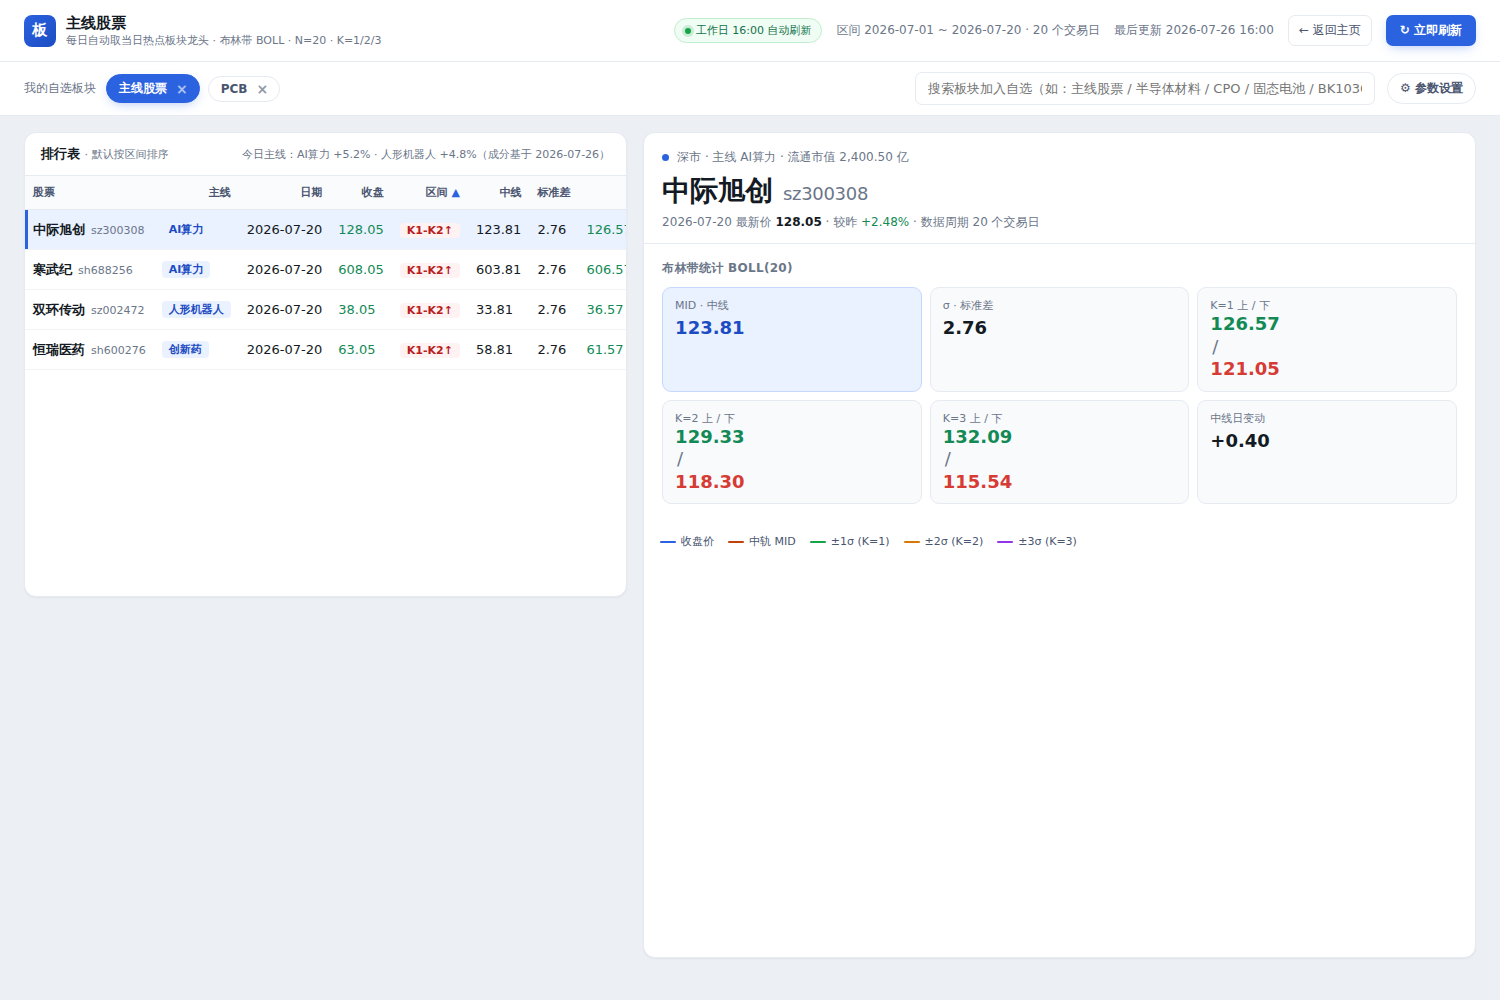
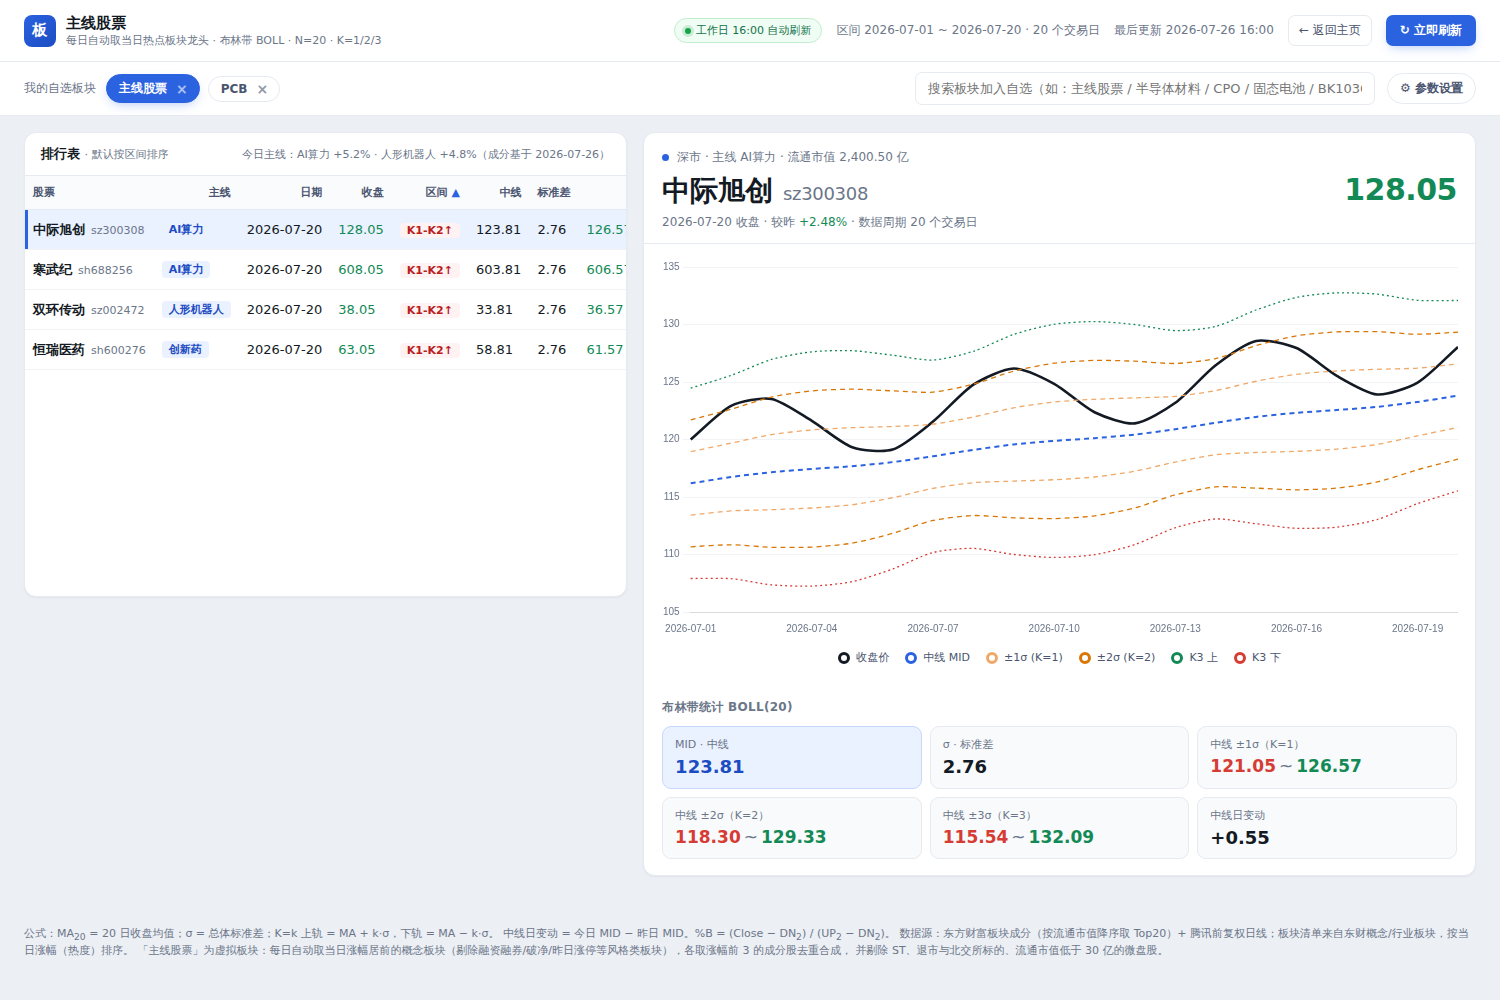
板块页详情面板改版：真滚动 MA(N) 轨道 + 图表配色重做
图表原来用「逐日扩展窗口」画轨道：第一根就有轨道且前段被挤得很窄，
跟右侧统计卡片里的 BOLL(N) 不是一个口径。现在改成真正的滚动 MA(N)±kσ。

subscription-worker.js
- fetchSectorCloses 多取 N-1 根「热身」收盘（共 2N-1 根），拆成展示窗口
  closes（N 根，统计卡片口径不变）与 warmup（热身段，只喂给图表）。
- payload 的 stocks[] 增加 warmup；dates 仍是 N 根，表格/统计/横轴全部不变。
- 上市不足 2N-1 根时热身自动变短，不报错。

sectors.html
- 图上每一点的轨道都用完整 N 根窗口，末点中线与统计卡片 MID 完全一致。
  老 KV 缓存没有 warmup 时 slice 下界被 0 夹住，自动退化成改动前的行为。
- 中线日变动改用真正「往前挪一根」的窗口，不再用近似（无 warmup 时仍走近似）。
- 线条配色收敛到唯一来源 SERIES，图例与曲线共用：收盘价加粗纯黑实线压顶层，
  中线蓝虚线，1σ/2σ 橙色短虚线，3σ 点线。3σ 上下分色时沿用本页 .up/.down
  语义（上绿下红），避免和正下方统计卡片里同一个数字的颜色打架。
- 图例改成空心圆点、移到图表下方居中；去掉纵向网格线。
- 详情面板顺序改为 标题 → 图表 → 统计卡片；标题行右侧加大字最新价（随涨跌着色）。
- 上下轨卡片由「上 / 下」竖排三行改成一行「下 ~ 上」——原来 sep 是 div，
  会把三个数字挤成三行。

Claude-Session: https://claude.ai/code/session_011r1rwC1F8nGVBhLb1jZRB8

diff --git a/sectors.html b/sectors.html
@@ -21,11 +21,7 @@
   --up: #138a55;
   --down: #d63b34;
   --ok-bg: #f0fdf4;
-  --c-price: #2b62e0;
-  --c-middle: #c2410c;
-  --c-k1: #16a34a;
-  --c-k2: #d97706;
-  --c-k3: #9333ea;
+  /* 图表线条配色见脚本里的 SERIES（单一来源，图例与曲线共用） */
   --r-sm: 7px;
   --r-md: 9px;
   --r-lg: 12px;
@@ -204,10 +200,18 @@ tbody tr.active td:first-child { box-shadow: inset 3px 0 0 var(--brand); }
 .detail-head { padding: 16px 18px 12px; border-bottom: 1px solid var(--line); }
 .detail-eyebrow { display: flex; align-items: center; gap: 8px; font-size: 12px; color: var(--ink-3); }
 .detail-eyebrow .dot { width: 7px; height: 7px; border-radius: 50%; background: var(--brand); }
-.detail-title { margin: 6px 0 4px; font-size: 28px; font-weight: 700; color: var(--ink); letter-spacing: -.3px; }
+/* 标题行：股票名 + 代码在左，最新价大字在右（对齐基线，价格随涨跌着色） */
+.detail-titlerow { display: flex; align-items: baseline; justify-content: space-between; gap: 16px; margin: 6px 0 4px; }
+.detail-title { font-size: 28px; font-weight: 700; color: var(--ink); letter-spacing: -.3px; }
 .detail-title .code-suffix { color: var(--ink-3); font-weight: 500; font-size: 18px; margin-left: 10px; }
+.detail-price { font-size: 30px; font-weight: 800; font-variant-numeric: tabular-nums; letter-spacing: -.5px; white-space: nowrap; }
 .detail-sub { font-size: 12px; color: var(--ink-3); }
 .detail-sub .price { color: var(--ink); font-weight: 600; }
+@media (max-width: 560px) {
+  .detail-titlerow { flex-wrap: wrap; }
+  .detail-title { font-size: 23px; }
+  .detail-price { font-size: 25px; }
+}
 
 .stats-section { padding: 16px 18px; }
 .stats-section h3 {
@@ -226,21 +230,27 @@ tbody tr.active td:first-child { box-shadow: inset 3px 0 0 var(--brand); }
 }
 .stat .k { font-size: 11px; color: var(--ink-3); font-weight: 500; }
 .stat .v { font-size: 18px; font-weight: 700; color: var(--ink); margin-top: 4px; font-variant-numeric: tabular-nums; line-height: 1.2; }
-.stat .v2 { font-size: 18px; font-weight: 700; color: var(--ink); font-variant-numeric: tabular-nums; line-height: 1.25; }
+/* 上下轨写成一行「下 ~ 上」；原来 sep 是 div，会把三个数字挤成三行 */
+.stat .v2 {
+  font-size: 17px; font-weight: 700; color: var(--ink); margin-top: 4px;
+  font-variant-numeric: tabular-nums; line-height: 1.2; white-space: nowrap;
+}
 .stat .v2 .lo { color: var(--down); }
-.stat .v2 .sep { color: var(--ink-3); margin: 0 2px; font-weight: 400; }
+.stat .v2 .sep { color: var(--ink-3); margin: 0 3px; font-weight: 400; }
 .stat .v2 .hi { color: var(--up); }
 .stat.brand { background: var(--brand-tint); border-color: #c7d8ff; }
 .stat.brand .v { color: var(--brand-strong); }
 
 .chart-section { padding: 14px 16px 18px; }
 .chart-section .legend {
-  display: flex; gap: 14px; flex-wrap: wrap; margin: 0 0 10px;
+  display: flex; gap: 8px 16px; flex-wrap: wrap; margin: 12px 0 0; justify-content: center;
   font-size: 11px; color: var(--ink-2);
 }
-.chart-section .legend span { display: inline-flex; align-items: center; gap: 5px; }
+.chart-section .legend span { display: inline-flex; align-items: center; gap: 6px; }
+/* 空心圆点图例：环用线条色，比细横线更容易分辨 */
 .chart-section .legend i {
-  display: inline-block; width: 16px; height: 2px; border-radius: 2px;
+  display: inline-block; width: 12px; height: 12px; border-radius: 50%;
+  border: 3px solid currentColor; background: var(--surface); box-sizing: border-box;
 }
 .chart-wrap { position: relative; height: 380px; }
 
@@ -323,18 +333,21 @@ tbody tr.active td:first-child { box-shadow: inset 3px 0 0 var(--brand); }
       <div class="card" id="detail">
         <div class="detail-head">
           <div class="detail-eyebrow"><span class="dot"></span><span id="d-market">—</span></div>
-          <div class="detail-title"><span id="d-name">—</span><span class="code-suffix" id="d-code"></span></div>
+          <div class="detail-titlerow">
+            <div class="detail-title"><span id="d-name">—</span><span class="code-suffix" id="d-code"></span></div>
+            <div class="detail-price" id="d-price">—</div>
+          </div>
           <div class="detail-sub" id="d-sub">—</div>
+        </div>
+
+        <div class="chart-section">
+          <div class="chart-wrap"><canvas id="chart"></canvas></div>
+          <div class="legend" id="chart-legend"></div>
         </div>
 
         <div class="stats-section">
           <h3>布林带统计 BOLL(<span class="js-n">20</span>)</h3>
           <div class="stats-row" id="stats-row"></div>
-        </div>
-
-        <div class="chart-section">
-          <div class="legend" id="chart-legend"></div>
-          <div class="chart-wrap"><canvas id="chart"></canvas></div>
         </div>
       </div>
     </div>
@@ -412,7 +425,21 @@ const MAINLINE = { bk: "ZX0001", name: "主线股票", type: "mainline", pct: nu
 const BK_RE = /^BK\d{4,6}$/;              // 仅用于下拉里“手动加入东财板块代码”
 const ID_RE = /^(?:BK\d{4,6}|ZX\d{4})$/;  // 自选 / 路由校验，含虚拟板块
 
+// 图表线条的唯一配色来源，图例与曲线共用，避免两处各写一份色值。
+// 1σ/2σ 上下同色（同一档轨道）；3σ 是最外档提示位，上下分色更好读，
+// 且必须沿用本页 .up/.down 的语义（上轨绿、下轨红），否则会和正下方
+// 统计卡片里同一个数字的颜色打架。
+const SERIES = {
+  price: { color: "#141a24", label: "收盘价" },
+  mid:   { color: "#2b62e0", label: "中线 MID" },
+  k1:    { color: "#f0a868", label: "±1σ (K=1)" },
+  k2:    { color: "#d97706", label: "±2σ (K=2)" },
+  k3u:   { color: "#138a55", label: "K3 上" },
+  k3d:   { color: "#d63b34", label: "K3 下" },
+};
+
 let DATES = [], STOCKS = [], rows = [], chart = null, activeCode = null;
+let PERIOD = DEFAULT_SETTINGS.days; // 当前这批数据用的周期 N，图上滚动窗口按它取
 let sortKey = "zoneIdx", sortDir = 1; // 默认按布林带区间排序（突破K3↑ → 突破K3↓），与主页“已选股票数据”一致
 let BOARDS = [];       // 全部板块清单 [{bk,name,type,pct}]
 let boardsLoaded = false; // 东财清单是否真的拉到（BOARDS 里恒有一条本地注入的主线，不能拿长度判断）
@@ -663,10 +690,11 @@ function applyData(data) {
     content.innerHTML = "";
     content.appendChild(document.getElementById("layout-tpl").content.cloneNode(true));
   }
-  updateNLabels(data.days || SETTINGS.days);
+  PERIOD = data.days || SETTINGS.days;
+  updateNLabels(PERIOD);
 
   rows = STOCKS.map(s => {
-    const st = stats(s.closes);
+    const st = stats(s.closes, s.warmup);
     st.zone = classifyCloseZone(st.last, st.mean, st.k1u, st.k1d, st.k2u, st.k2d, st.k3u, st.k3d);
     st.zoneIdx = st.zone.idx; // 供“区间”列排序
     return { ...s, theme: s.theme || "", ...st }; // theme 恒为字符串，排序走 localeCompare 分支
@@ -693,14 +721,20 @@ function renderBoardNote(data) {
   note.textContent = `今日主线：${list}` + (data.basedOnDate ? `（成分基于 ${data.basedOnDate}）` : "");
 }
 
-function stats(closes) {
+const avg = (a) => a.reduce((s, x) => s + x, 0) / a.length;
+
+function stats(closes, warmup) {
   const n = closes.length;
   if (!n) return { mean:0, std:0, last:0, prev:0, pct:0, midPrev:0, midDelta:0, k1u:0,k1d:0,k2u:0,k2d:0,k3u:0,k3d:0, pctB:0 };
-  const mean = closes.reduce((a,b)=>a+b,0)/n;
+  const mean = avg(closes);
   const variance = closes.reduce((s,x)=>s+(x-mean)**2,0)/n;
   const std = Math.sqrt(variance);
-  // 中线日变动：今日 MA_N − 昨日 MA_N；只有 N 个值时用近似（差异在小数点后 2~3 位）。
-  const midPrev = (closes.slice(0, n-1).reduce((a,b)=>a+b,0) + closes[0]) / n;
+  // 中线日变动：今日 MA_N − 昨日 MA_N。后端给了热身收盘就能取到真正的「往前挪一根」窗口；
+  // 老缓存没有 warmup 时退回原来的近似（差异在小数点后 2~3 位）。
+  const w = Array.isArray(warmup) ? warmup : [];
+  const midPrev = w.length
+    ? avg(w.concat(closes).slice(-(n + 1), -1))
+    : (closes.slice(0, n-1).reduce((a,b)=>a+b,0) + closes[0]) / n;
   const midDelta = mean - midPrev;
   const last = closes[n-1], prev = closes[n-2] || last;
   const pct = prev ? ((last/prev)-1)*100 : 0;
@@ -791,56 +825,75 @@ function selectStock(code) {
   document.getElementById("d-name").textContent = r.name;
   document.getElementById("d-code").textContent = r.code;
 
+  const priceCls = r.pct > 0 ? "up" : r.pct < 0 ? "down" : "flat";
+  const dPrice = document.getElementById("d-price");
+  dPrice.textContent = fmtNum(r.last, 2);
+  dPrice.className = `detail-price ${priceCls}`;
+
   const lastDate = DATES[DATES.length-1];
-  const pctSpan = `<span class="${r.pct>0?'up':r.pct<0?'down':'flat'}">${r.pct>0?'+':''}${r.pct.toFixed(2)}%</span>`;
+  const pctSpan = `<span class="${priceCls}">${r.pct>0?'+':''}${r.pct.toFixed(2)}%</span>`;
   document.getElementById("d-sub").innerHTML =
-    `${lastDate} 最新价 <span class="price">${fmtNum(r.last,2)}</span> · 较昨 ${pctSpan} · 数据周期 ${DATES.length} 个交易日`;
+    `${lastDate} 收盘 · 较昨 ${pctSpan} · 数据周期 ${DATES.length} 个交易日`;
 
   const deltaCls = r.midDelta > 0 ? "up" : r.midDelta < 0 ? "down" : "flat";
+  const band = (k, lo, hi) =>
+    `<div class="stat"><div class="k">${k}</div><div class="v2">` +
+    `<span class="lo">${fmtNum(lo,2)}</span><span class="sep">~</span><span class="hi">${fmtNum(hi,2)}</span>` +
+    `</div></div>`;
   document.getElementById("stats-row").innerHTML = `
     <div class="stat brand"><div class="k">MID · 中线</div><div class="v">${fmtNum(r.mean,2)}</div></div>
     <div class="stat"><div class="k">σ · 标准差</div><div class="v">${fmtNum(r.std,2)}</div></div>
-    <div class="stat"><div class="k">K=1 上 / 下</div><div class="v2"><span class="hi">${fmtNum(r.k1u,2)}</span><div class="sep">/</div><span class="lo">${fmtNum(r.k1d,2)}</span></div></div>
-    <div class="stat"><div class="k">K=2 上 / 下</div><div class="v2"><span class="hi">${fmtNum(r.k2u,2)}</span><div class="sep">/</div><span class="lo">${fmtNum(r.k2d,2)}</span></div></div>
-    <div class="stat"><div class="k">K=3 上 / 下</div><div class="v2"><span class="hi">${fmtNum(r.k3u,2)}</span><div class="sep">/</div><span class="lo">${fmtNum(r.k3d,2)}</span></div></div>
+    ${band("中线 ±1σ（K=1）", r.k1d, r.k1u)}
+    ${band("中线 ±2σ（K=2）", r.k2d, r.k2u)}
+    ${band("中线 ±3σ（K=3）", r.k3d, r.k3u)}
     <div class="stat"><div class="k">中线日变动</div><div class="v ${deltaCls}">${r.midDelta>0?'+':''}${fmtNum(r.midDelta,2)}</div></div>
   `;
 
-  // expanding-window bands for chart
+  // 真滚动 MA(N)±kσ：后端多给的 warmup 让展示窗口第一根也凑得出完整的 N 根样本，
+  // 于是图上每一点的轨道都和右下角统计卡片同口径。老缓存没有 warmup 时，
+  // slice 的下界自动被 0 夹住，退化成改动前的逐日扩展窗口，不会报错也不会断线。
   const closes = r.closes;
-  const expandMean = i => { const w = closes.slice(0,i+1); return w.reduce((a,b)=>a+b,0)/w.length; };
-  const expandStd  = (i,m) => { const w = closes.slice(0,i+1); const v = w.reduce((s,x)=>s+(x-m)**2,0)/w.length; return Math.sqrt(v); };
-  const mids = closes.map((_,i)=> expandMean(i));
-  const k1u = closes.map((_,i)=> { const m=expandMean(i); return m + expandStd(i,m); });
-  const k1d = closes.map((_,i)=> { const m=expandMean(i); return m - expandStd(i,m); });
-  const k2u = closes.map((_,i)=> { const m=expandMean(i); return m + 2*expandStd(i,m); });
-  const k2d = closes.map((_,i)=> { const m=expandMean(i); return m - 2*expandStd(i,m); });
-  const k3u = closes.map((_,i)=> { const m=expandMean(i); return m + 3*expandStd(i,m); });
-  const k3d = closes.map((_,i)=> { const m=expandMean(i); return m - 3*expandStd(i,m); });
+  const warmup = Array.isArray(r.warmup) ? r.warmup : [];
+  const series = warmup.concat(closes);
+  const bands = closes.map((_, i) => {
+    const end = warmup.length + i + 1;
+    const w = series.slice(Math.max(0, end - PERIOD), end);
+    const m = avg(w);
+    const sd = Math.sqrt(w.reduce((s, x) => s + (x - m) ** 2, 0) / w.length);
+    return { m, sd };
+  });
+  const mids = bands.map(b => b.m);
+  const k1u = bands.map(b => b.m + b.sd);
+  const k1d = bands.map(b => b.m - b.sd);
+  const k2u = bands.map(b => b.m + 2 * b.sd);
+  const k2d = bands.map(b => b.m - 2 * b.sd);
+  const k3u = bands.map(b => b.m + 3 * b.sd);
+  const k3d = bands.map(b => b.m - 3 * b.sd);
 
-  document.getElementById("chart-legend").innerHTML = `
-    <span><i style="background:var(--c-price)"></i>收盘价</span>
-    <span><i style="background:var(--c-middle)"></i>中轨 MID</span>
-    <span><i style="background:var(--c-k1)"></i>±1σ (K=1)</span>
-    <span><i style="background:var(--c-k2)"></i>±2σ (K=2)</span>
-    <span><i style="background:var(--c-k3)"></i>±3σ (K=3)</span>
-  `;
+  document.getElementById("chart-legend").innerHTML =
+    ["price", "mid", "k1", "k2", "k3u", "k3d"]
+      .map(k => `<span><i style="color:${SERIES[k].color}"></i>${SERIES[k].label}</span>`)
+      .join("");
 
   if (chart) chart.destroy();
-  const dashed = [3,3], dotted = [1,3];
+  const dashed = [5,4], dotted = [2,3];
+  // 线型按“离中线多远”递进：中线虚线 → 1σ/2σ 短虚线 → 3σ 点线；收盘价最粗最实，压在最上层。
+  const bandLine = (label, data, color, dash) =>
+    ({ label, data, borderColor: color, borderWidth: 1.3, pointRadius: 0, pointHoverRadius: 0, borderDash: dash, tension: 0.25 });
   chart = new Chart(document.getElementById("chart"), {
     type: "line",
     data: {
       labels: DATES,
       datasets: [
-        { label:"K3上", data:k3u, borderColor:"#9333ea", borderWidth:1, pointRadius:0, borderDash:dotted },
-        { label:"K2上", data:k2u, borderColor:"#d97706", borderWidth:1, pointRadius:0, borderDash:dashed },
-        { label:"K1上", data:k1u, borderColor:"#16a34a", borderWidth:1, pointRadius:0 },
-        { label:"MID",  data:mids, borderColor:"#c2410c", borderWidth:1.8, pointRadius:0 },
-        { label:"K1下", data:k1d, borderColor:"#16a34a", borderWidth:1, pointRadius:0 },
-        { label:"K2下", data:k2d, borderColor:"#d97706", borderWidth:1, pointRadius:0, borderDash:dashed },
-        { label:"K3下", data:k3d, borderColor:"#9333ea", borderWidth:1, pointRadius:0, borderDash:dotted },
-        { label:"收盘", data:closes, borderColor:"#2b62e0", backgroundColor:"#2b62e0", borderWidth:2.2, pointRadius:2.5, tension:0.15 },
+        bandLine("K3 上", k3u, SERIES.k3u.color, dotted),
+        bandLine("K2 上", k2u, SERIES.k2.color, dashed),
+        bandLine("K1 上", k1u, SERIES.k1.color, dashed),
+        { label:"中线", data:mids, borderColor:SERIES.mid.color, borderWidth:2, pointRadius:0, pointHoverRadius:0, borderDash:dashed, tension:0.25 },
+        bandLine("K1 下", k1d, SERIES.k1.color, dashed),
+        bandLine("K2 下", k2d, SERIES.k2.color, dashed),
+        bandLine("K3 下", k3d, SERIES.k3d.color, dotted),
+        { label:"收盘价", data:closes, borderColor:SERIES.price.color, backgroundColor:SERIES.price.color,
+          borderWidth:2.6, pointRadius:0, pointHoverRadius:4, tension:0.25 },
       ]
     },
     options: {
@@ -850,13 +903,15 @@ function selectStock(code) {
         legend: { display: false },
         tooltip: {
           mode: "index", intersect: false, backgroundColor: "rgba(20,28,42,.92)",
+          padding: 10, boxPadding: 4,
           titleFont: { size: 11, weight: 600 }, bodyFont: { size: 11 },
           itemSort: (a,b)=> b.parsed.y - a.parsed.y,
+          callbacks: { label: (c) => ` ${c.dataset.label}  ${fmtNum(c.parsed.y, 2)}` },
         }
       },
       scales: {
-        x: { ticks: { autoSkip: true, maxTicksLimit: 8, font: { size: 10, family: 'var(--font)' }, color: '#6b7689' }, grid: { color: "#f1f3f7" } },
-        y: { ticks: { font: { size: 10, family: 'var(--font)' }, color: '#6b7689' }, grid: { color: "#f1f3f7" } },
+        x: { ticks: { autoSkip: true, maxTicksLimit: 8, font: { size: 10, family: 'var(--font)' }, color: '#6b7689' }, grid: { display: false } },
+        y: { ticks: { font: { size: 10, family: 'var(--font)' }, color: '#6b7689' }, grid: { color: "#f1f3f7" }, border: { display: false } },
       }
     }
   });

diff --git a/subscription-worker.js b/subscription-worker.js
@@ -1547,7 +1547,8 @@ async function fetchBkSectorRanking(env, bk, topN = SECTOR_TOP_N) {
 async function fetchSectorCloses(stock, days = SECTOR_LOOKBACK_DAYS, adjust = SECTOR_DEFAULT_ADJUST) {
   const symbol = `${stock.market === "1" ? "sh" : "sz"}${stock.code}`;
   const fq = adjust === "none" ? "" : adjust;
-  const param = `${symbol},day,,,${days + 10},${fq}`;
+  // 多取 N-1 根「热身」：前端要画真正的滚动 MA(N)±kσ，展示窗口的第一根也得凑得出完整的 N 根样本。
+  const param = `${symbol},day,,,${days * 2 + 10},${fq}`;
   const payload = await fetchJsonWithRetry(
     `https://web.ifzq.gtimg.cn/appstock/app/fqkline/get?param=${param}`,
     { headers: { Accept: "application/json,text/plain,*/*" } },
@@ -1556,10 +1557,12 @@ async function fetchSectorCloses(stock, days = SECTOR_LOOKBACK_DAYS, adjust = SE
   const obj = payload?.data?.[symbol] || {};
   const rows = (fq && obj[`${fq}day`]) || obj.day || [];
   if (!rows.length) throw new Error(`${stock.code} 无K线数据`);
-  const bars = rows.slice(-days);
+  const bars = rows.slice(-(days * 2 - 1));
+  const cut = Math.max(0, bars.length - days); // 热身段长度；上市不足 2N-1 根时自动变短
   return {
-    dates: bars.map((b) => String(b[0])),
-    closes: bars.map((b) => Number(b[2])),
+    dates: bars.slice(cut).map((b) => String(b[0])),
+    closes: bars.slice(cut).map((b) => Number(b[2])),
+    warmup: bars.slice(0, cut).map((b) => Number(b[2])),
   };
 }
 
@@ -1580,7 +1583,7 @@ async function refreshSectorBollinger(env, bk, opts = {}) {
   const enriched = (
     await mapWithConcurrency(ranking, 5, async (s) => {
       try {
-        const { dates, closes } = await fetchSectorCloses(s, days, adjust);
+        const { dates, closes, warmup } = await fetchSectorCloses(s, days, adjust);
         if (!closes.length) return null;
         return {
           code: `${s.market === "1" ? "sh" : "sz"}${s.code}`,
@@ -1589,6 +1592,7 @@ async function refreshSectorBollinger(env, bk, opts = {}) {
           theme: s.theme || "",
           dates,
           closes,
+          warmup,
         };
       } catch (err) {
         console.warn(`[sector] kline failed ${s.code}:`, err?.message || err);
@@ -1623,6 +1627,8 @@ async function refreshSectorBollinger(env, bk, opts = {}) {
       mcap: s.mcap,
       ...(s.theme ? { theme: s.theme } : {}),
       closes: s.closes,
+      // 展示窗口之前的 N-1 根收盘，只用于把图上的轨道算成真滚动 MA(N)，不参与统计卡片
+      ...(s.warmup?.length ? { warmup: s.warmup } : {}),
     })),
   };
   const isDefault = days === SECTOR_LOOKBACK_DAYS && adjust === SECTOR_DEFAULT_ADJUST;
